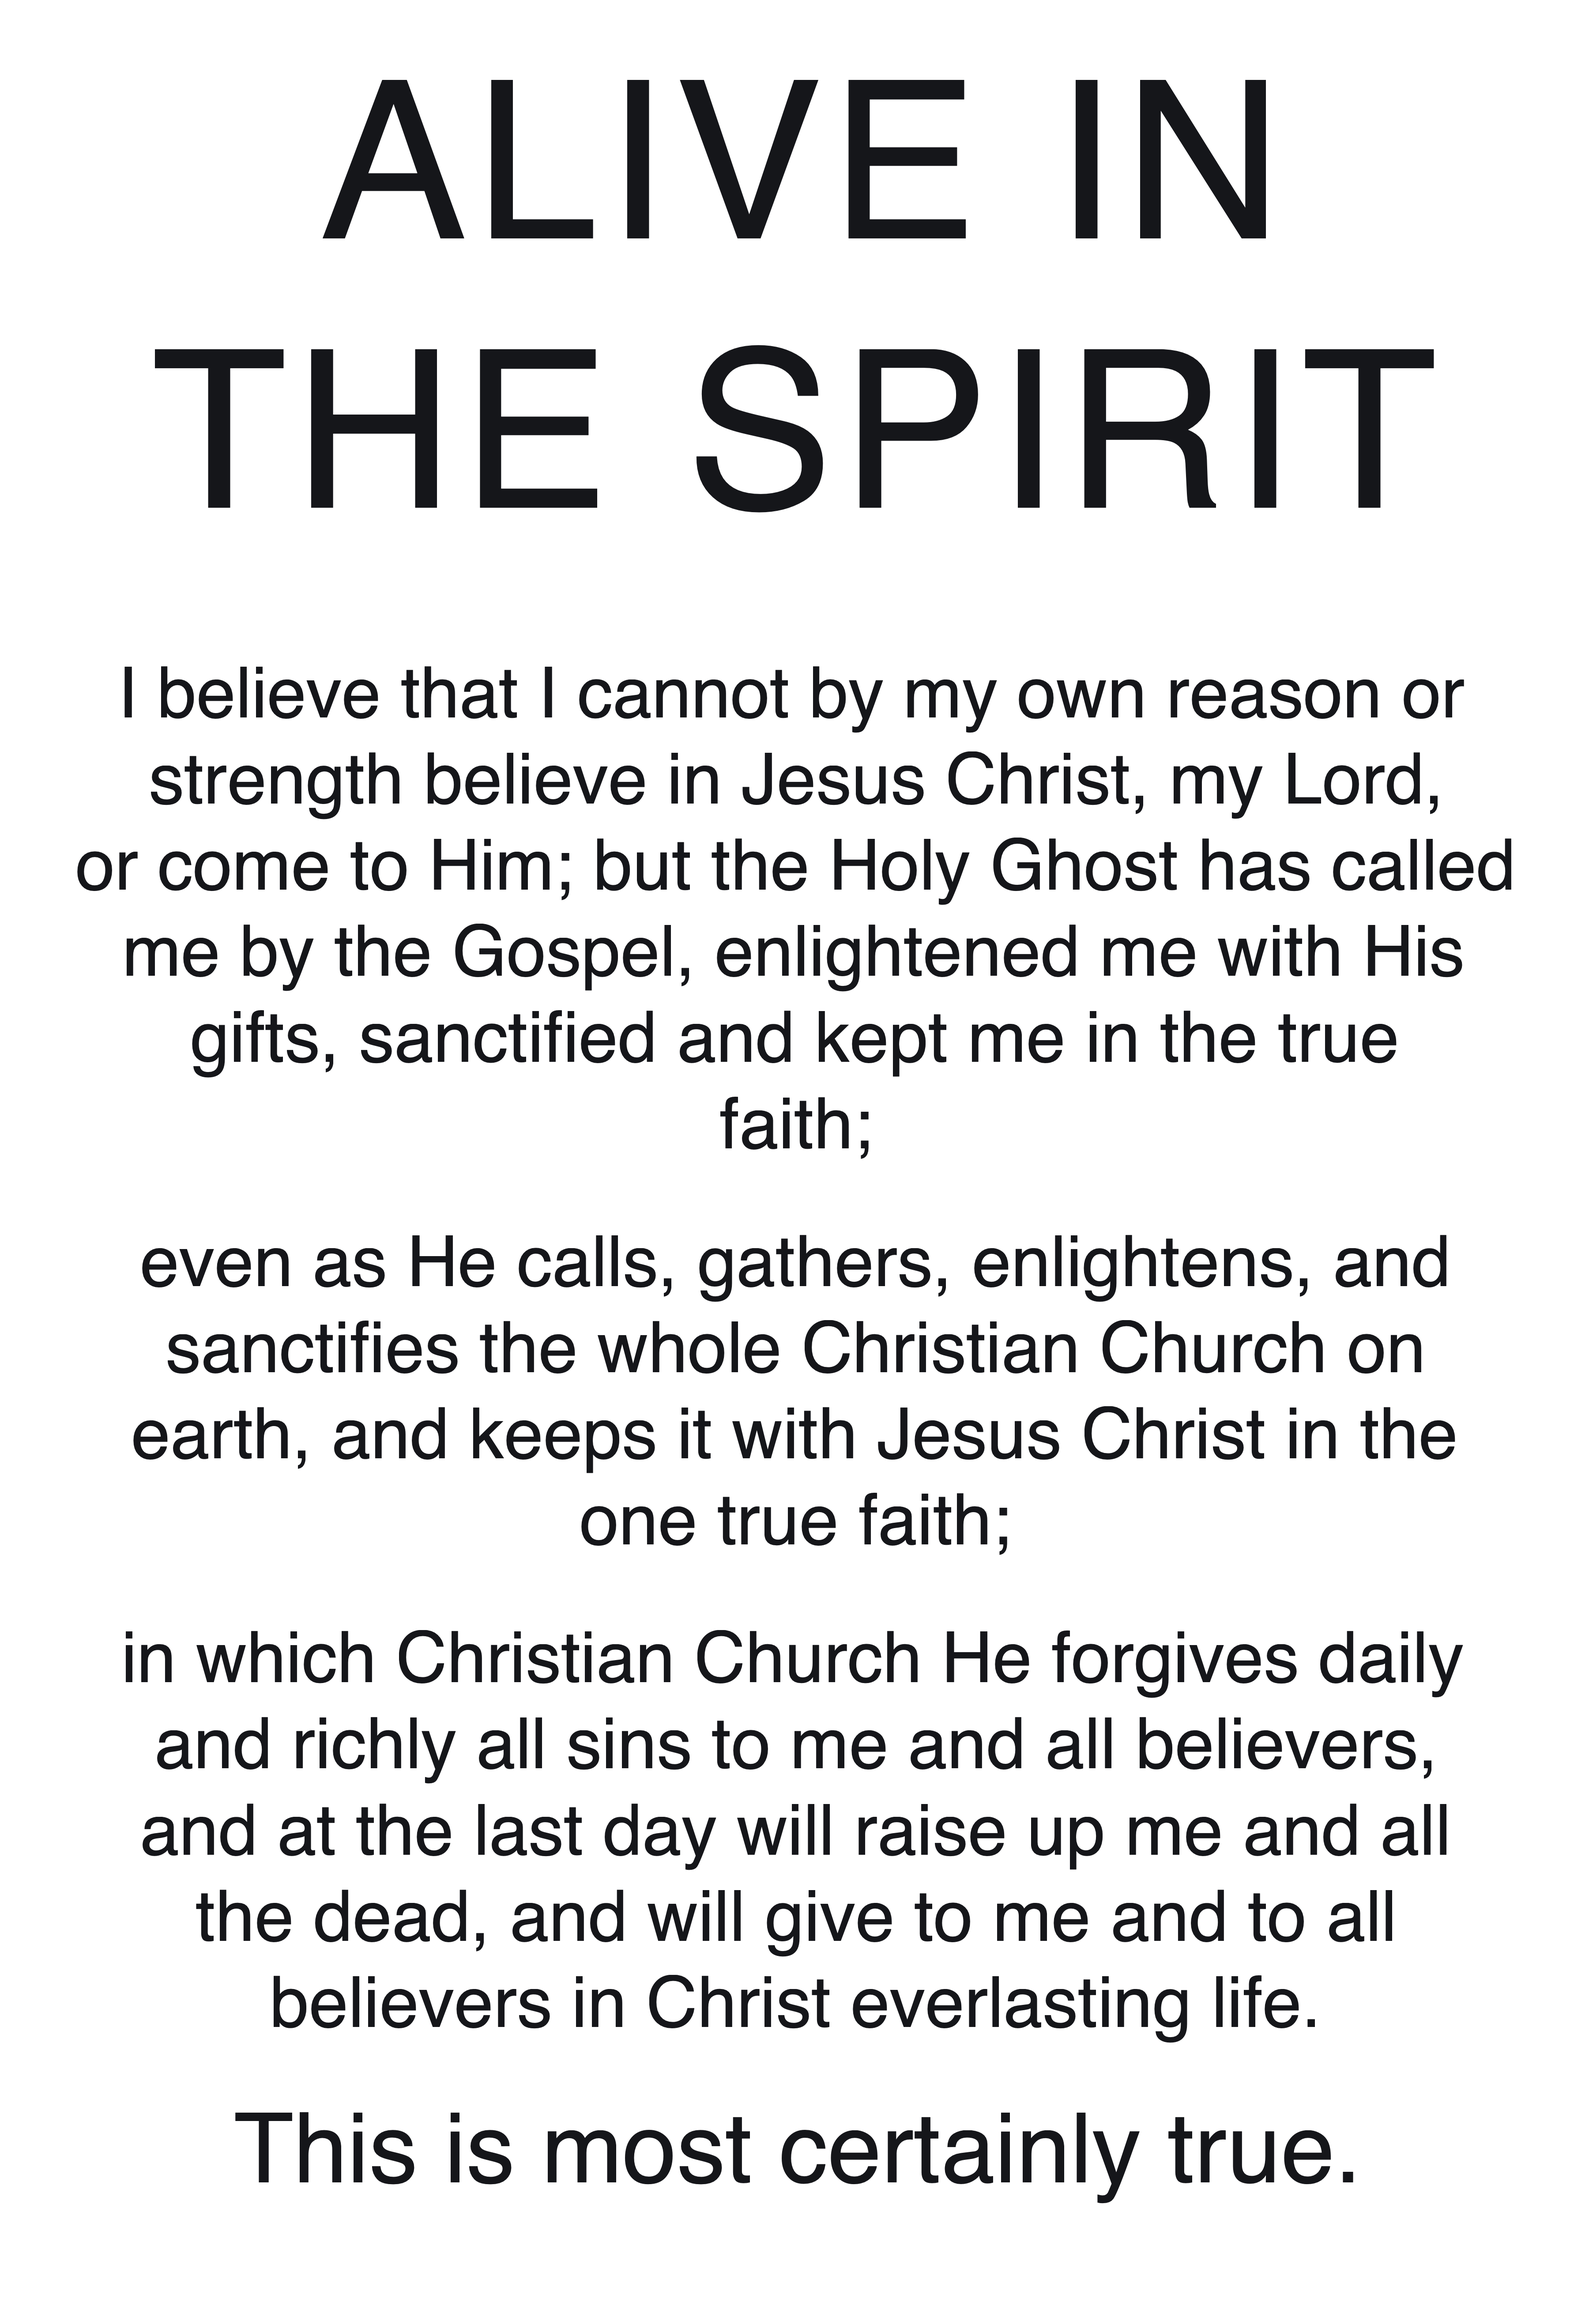
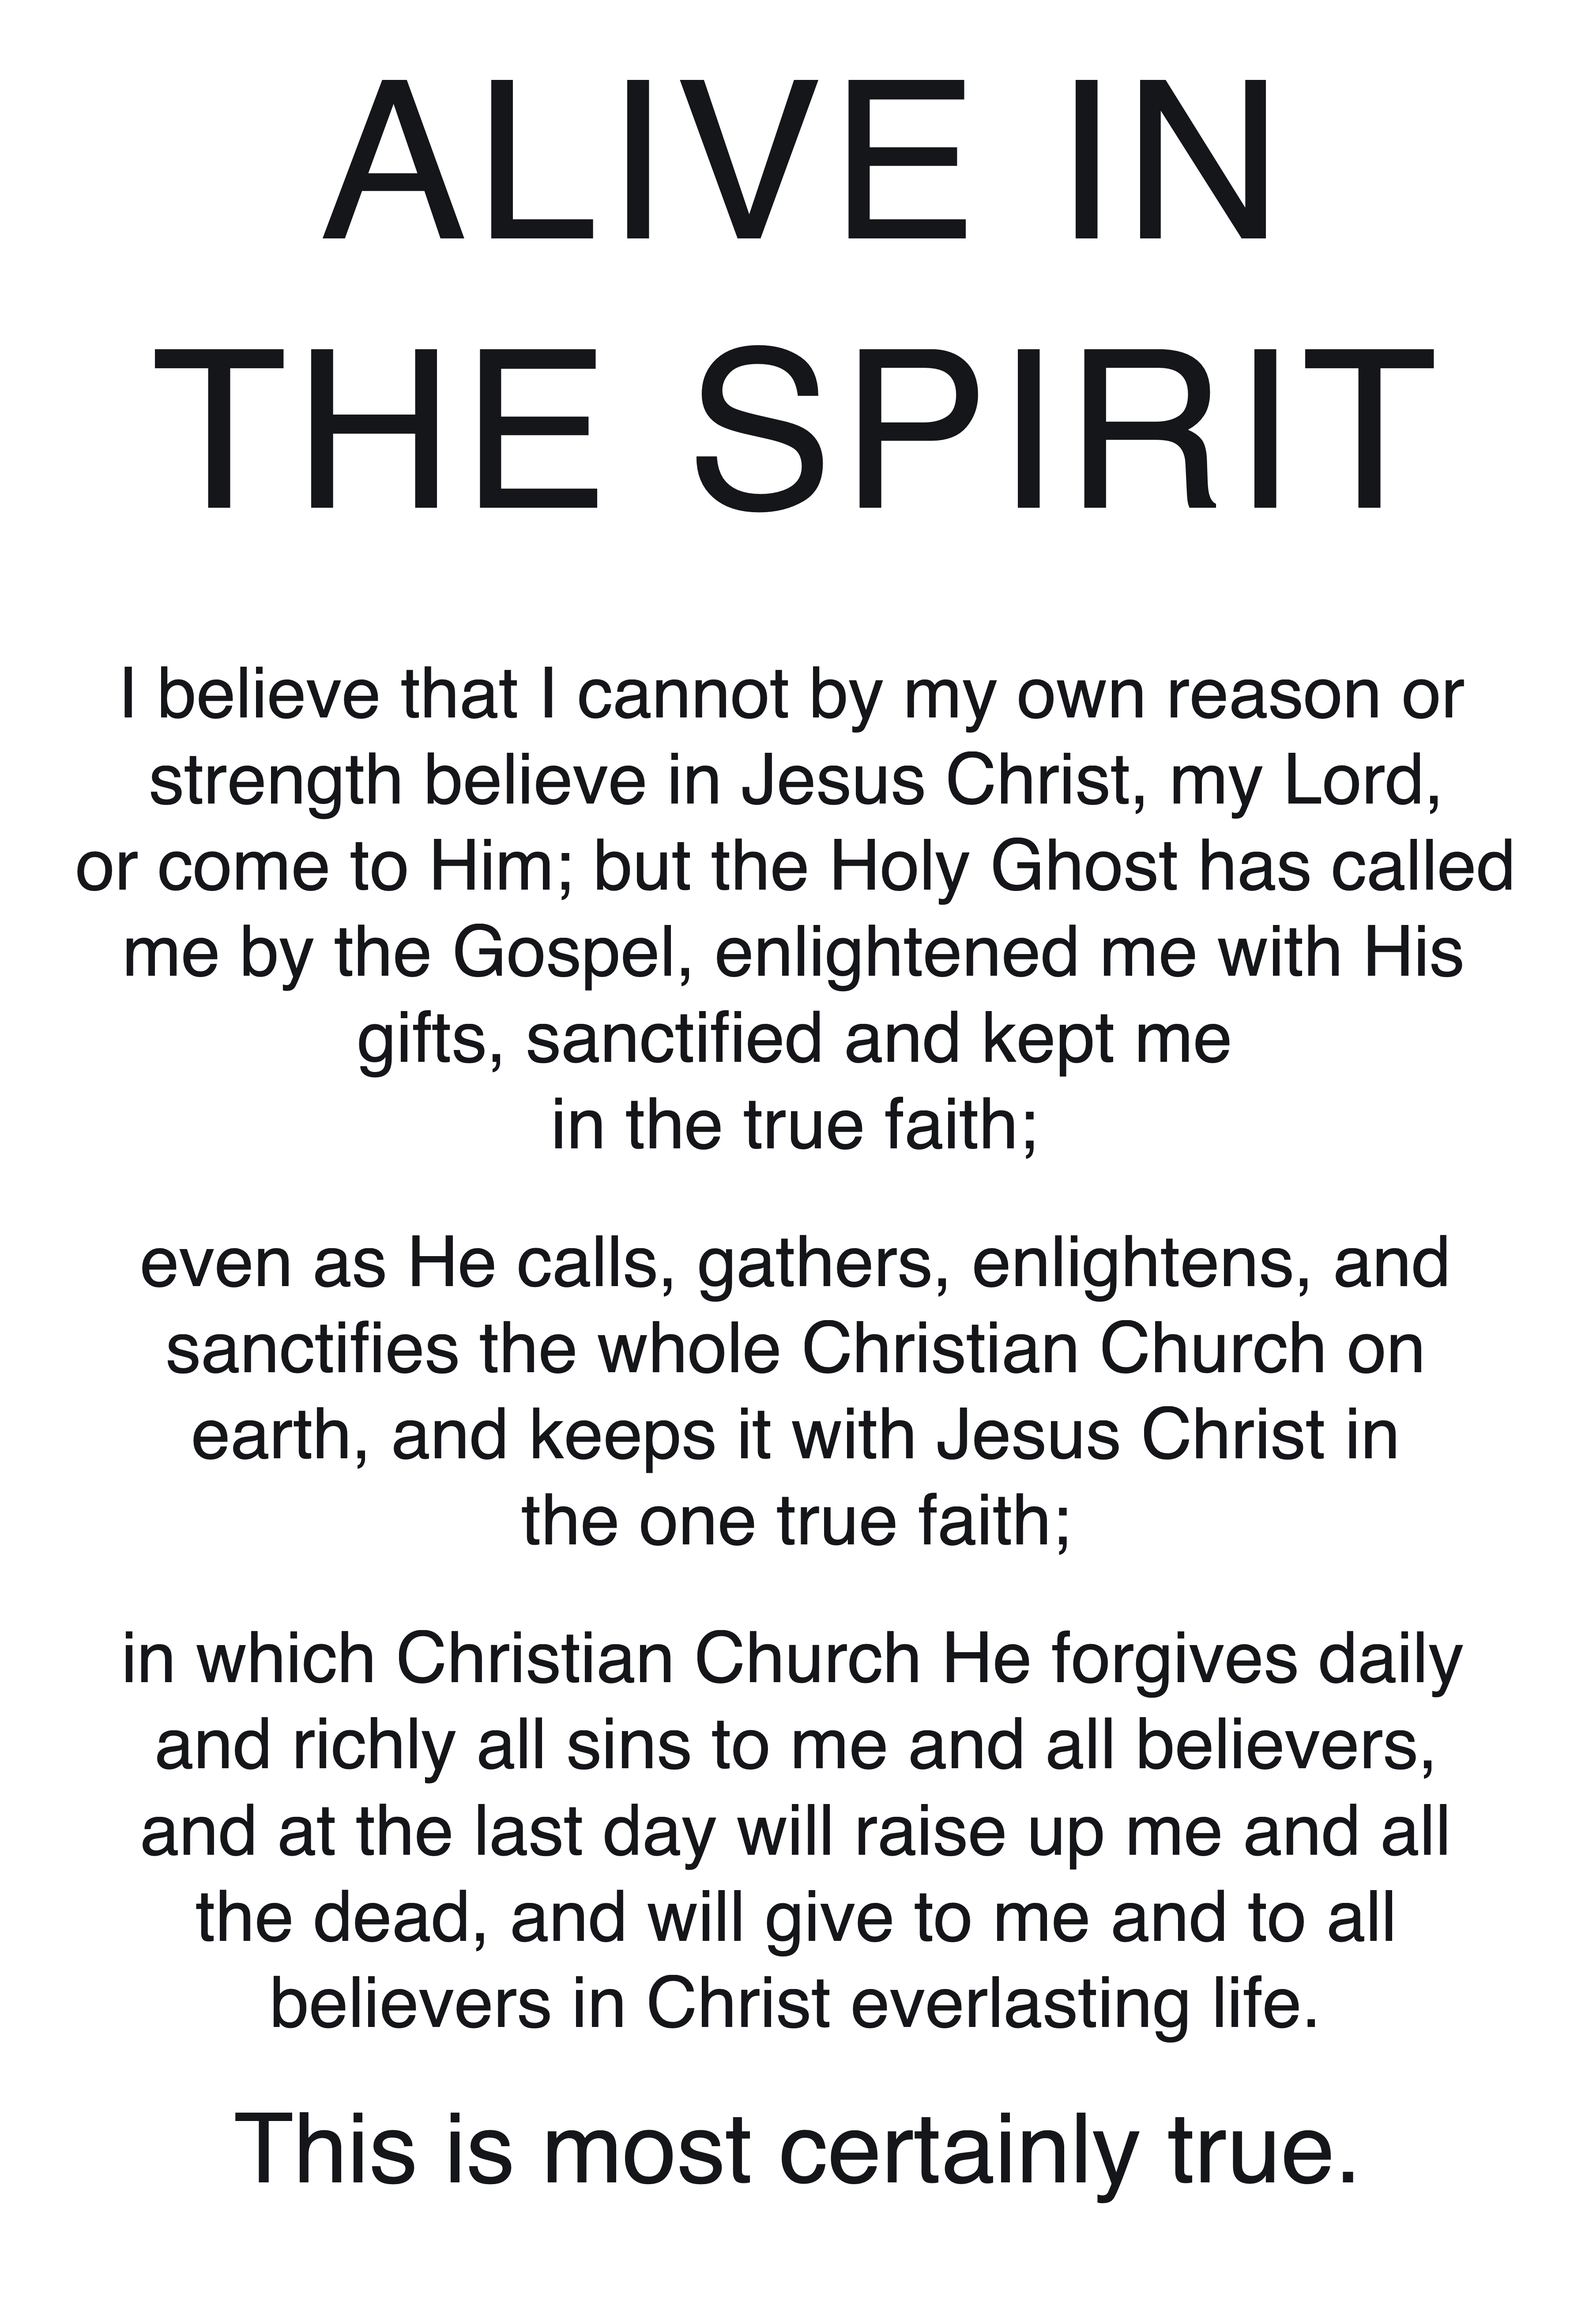
Widow prevention in wrap_text — pull words up to balance last lines
Greedy line wrap was leaving dangling tails of one or two words at
the end of paragraphs (e.g. Gal 5:17 ending with just "flesh.", the
first paragraph of the catechism back ending with just "faith;"). On
a shirt that reads as a typographic mistake.

wrap_text now does a post-pass: if the last line has fewer than 4
words, it pulls words up from the second-to-last line one at a time,
respecting two guardrails:
  - the second-to-last line must keep at least 3 words (so we don't
    create a new short line in the previous slot);
  - the new last line must still fit within max_w (no overflow).

Result: every multi-line paragraph now ends with 4+ words. Source
text is unchanged — this is purely a layout-time rebalancing.

Changed region(s): [[0.0933, 0.593, 0.9022, 0.6866], [0.1244, 0.4369, 0.8711, 0.4993]]

diff --git a/build.py b/build.py
@@ -115,12 +115,19 @@ def parse_shirt(path: Path):
     return meta, sections
 
 
-def wrap_text(text: str, max_w: float, font_size: float, char_w: float = SERIF_CW) -> list[str]:
+def wrap_text(text: str, max_w: float, font_size: float, char_w: float = SERIF_CW,
+              min_last_words: int = 4) -> list[str]:
     words = text.split()
     if not words:
         return []
-    lines, cur, cur_w = [], [], 0.0
     space_w = font_size * char_w * 0.6
+
+    def line_w(ws: list[str]) -> float:
+        if not ws:
+            return 0.0
+        return sum(len(w) * font_size * char_w for w in ws) + (len(ws) - 1) * space_w
+
+    lines, cur, cur_w = [], [], 0.0
     for w in words:
         ww = len(w) * font_size * char_w
         add = ww if not cur else ww + space_w
@@ -132,6 +139,22 @@ def wrap_text(text: str, max_w: float, font_size: float, char_w: float = SERIF_C
             cur_w += add
     if cur:
         lines.append(" ".join(cur))
+
+    # Widow prevention: pull words up from the second-to-last line into the last
+    # line until it has at least min_last_words. Don't strip the prior line below
+    # 3 words, and don't push the last line past max_w.
+    if len(lines) >= 2:
+        prev_w = lines[-2].split()
+        last_w = lines[-1].split()
+        while len(last_w) < min_last_words and len(prev_w) > 3:
+            candidate = [prev_w[-1]] + last_w
+            if line_w(candidate) > max_w:
+                break
+            last_w = candidate
+            prev_w.pop()
+        lines[-2] = " ".join(prev_w)
+        lines[-1] = " ".join(last_w)
+
     return lines
 
 
